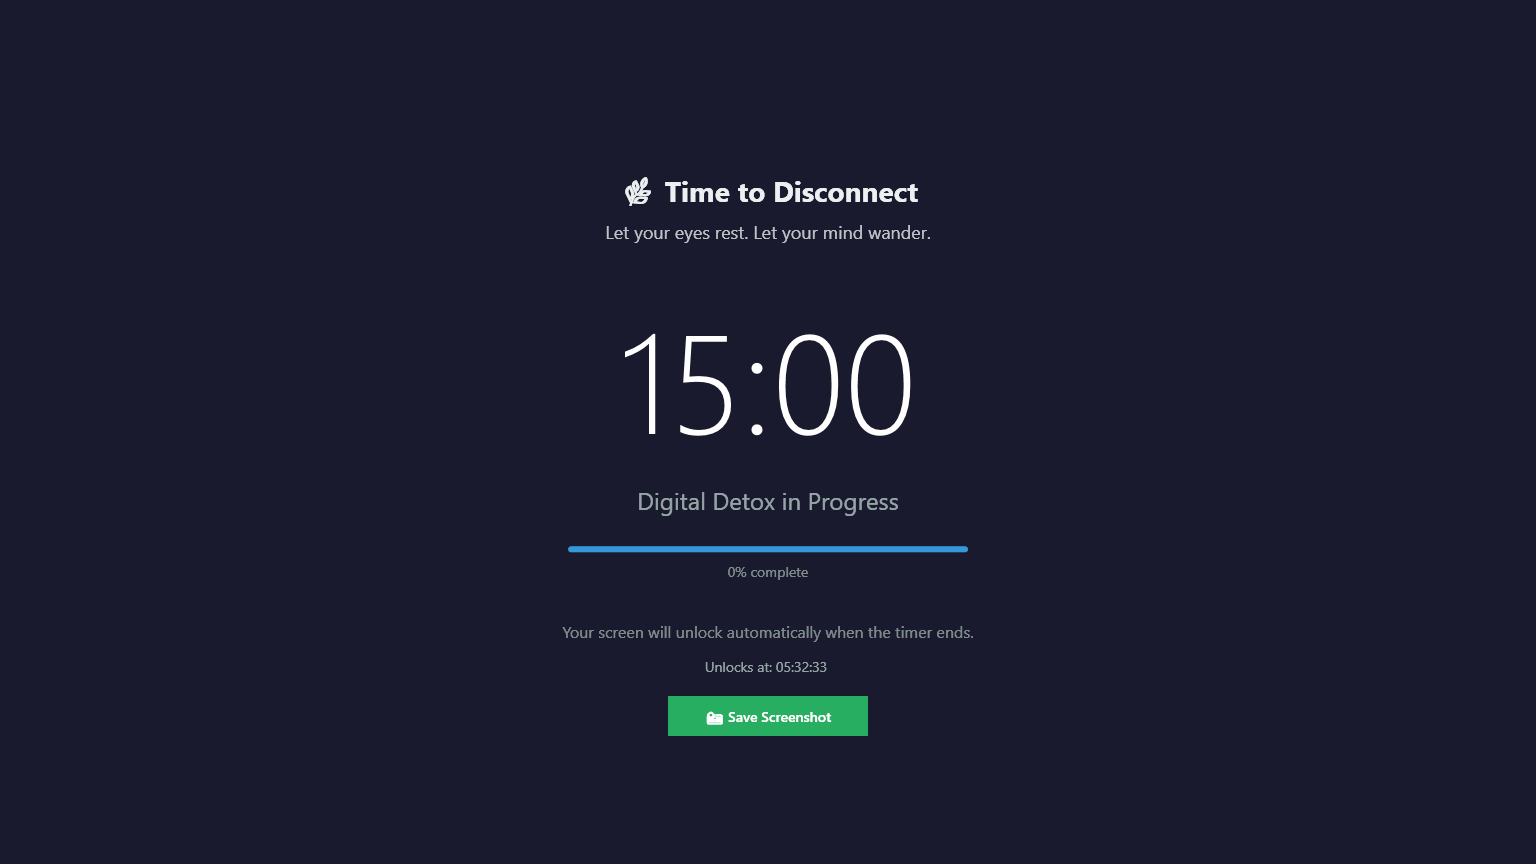
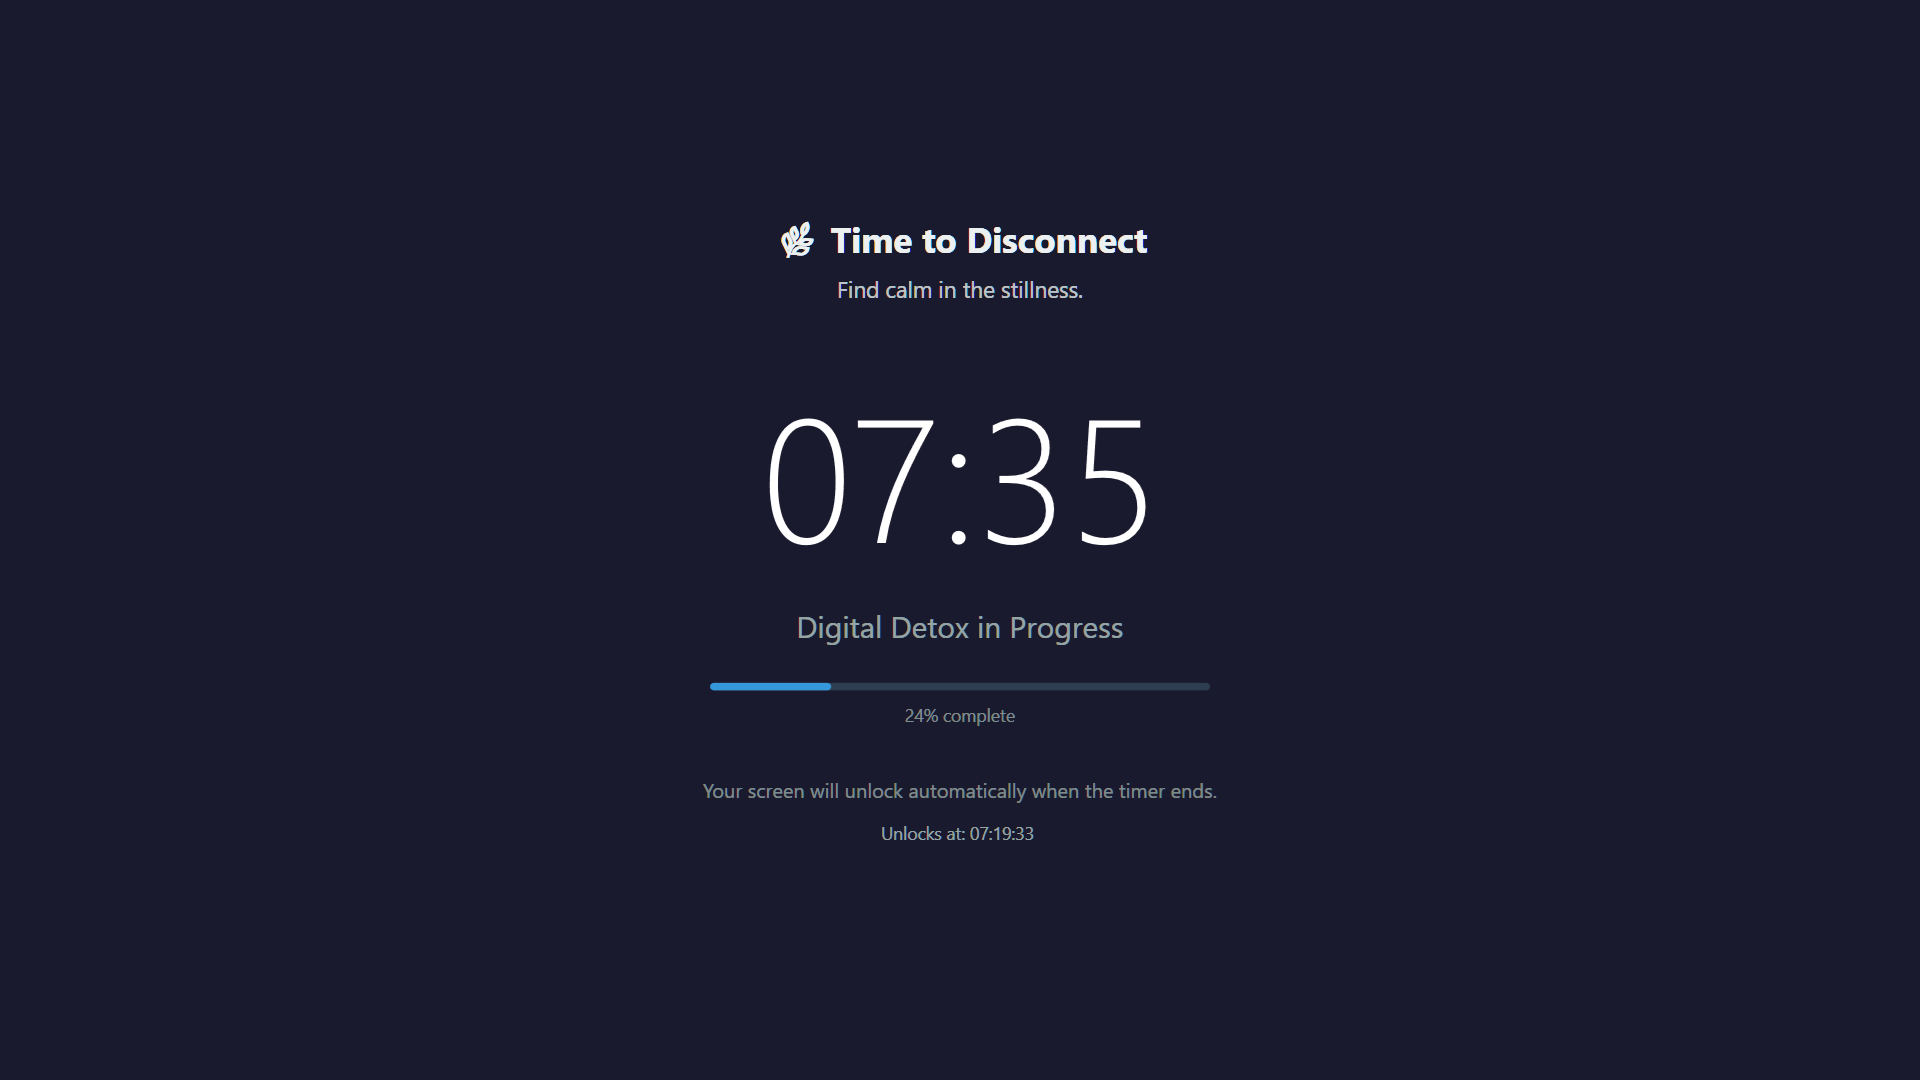
Update screenshots and show the main window in the README

diff --git a/README.md b/README.md
@@ -46,6 +46,8 @@ dotnet publish -c Release -r win-x64 --self-contained true -p:PublishSingleFile=
 
 ## How to use
 
+<img src="screenshots/main-window.png" alt="Main window" width="320" align="right" />
+
 1. Enter how many minutes you want to disconnect, or click a preset
 2. Click **Start Digital Detox**
 3. Step away from the screen; it unlocks by itself when the timer reaches zero
@@ -53,6 +55,8 @@ dotnet publish -c Release -r win-x64 --self-contained true -p:PublishSingleFile=
 ### Emergency exit
 
 Press **Ctrl+Shift+X** three times in a row (within 2 seconds of each other). An **Emergency Exit** button appears; click it and confirm to end the session early.
+
+<br clear="right" />
 
 ## Limitations
 
